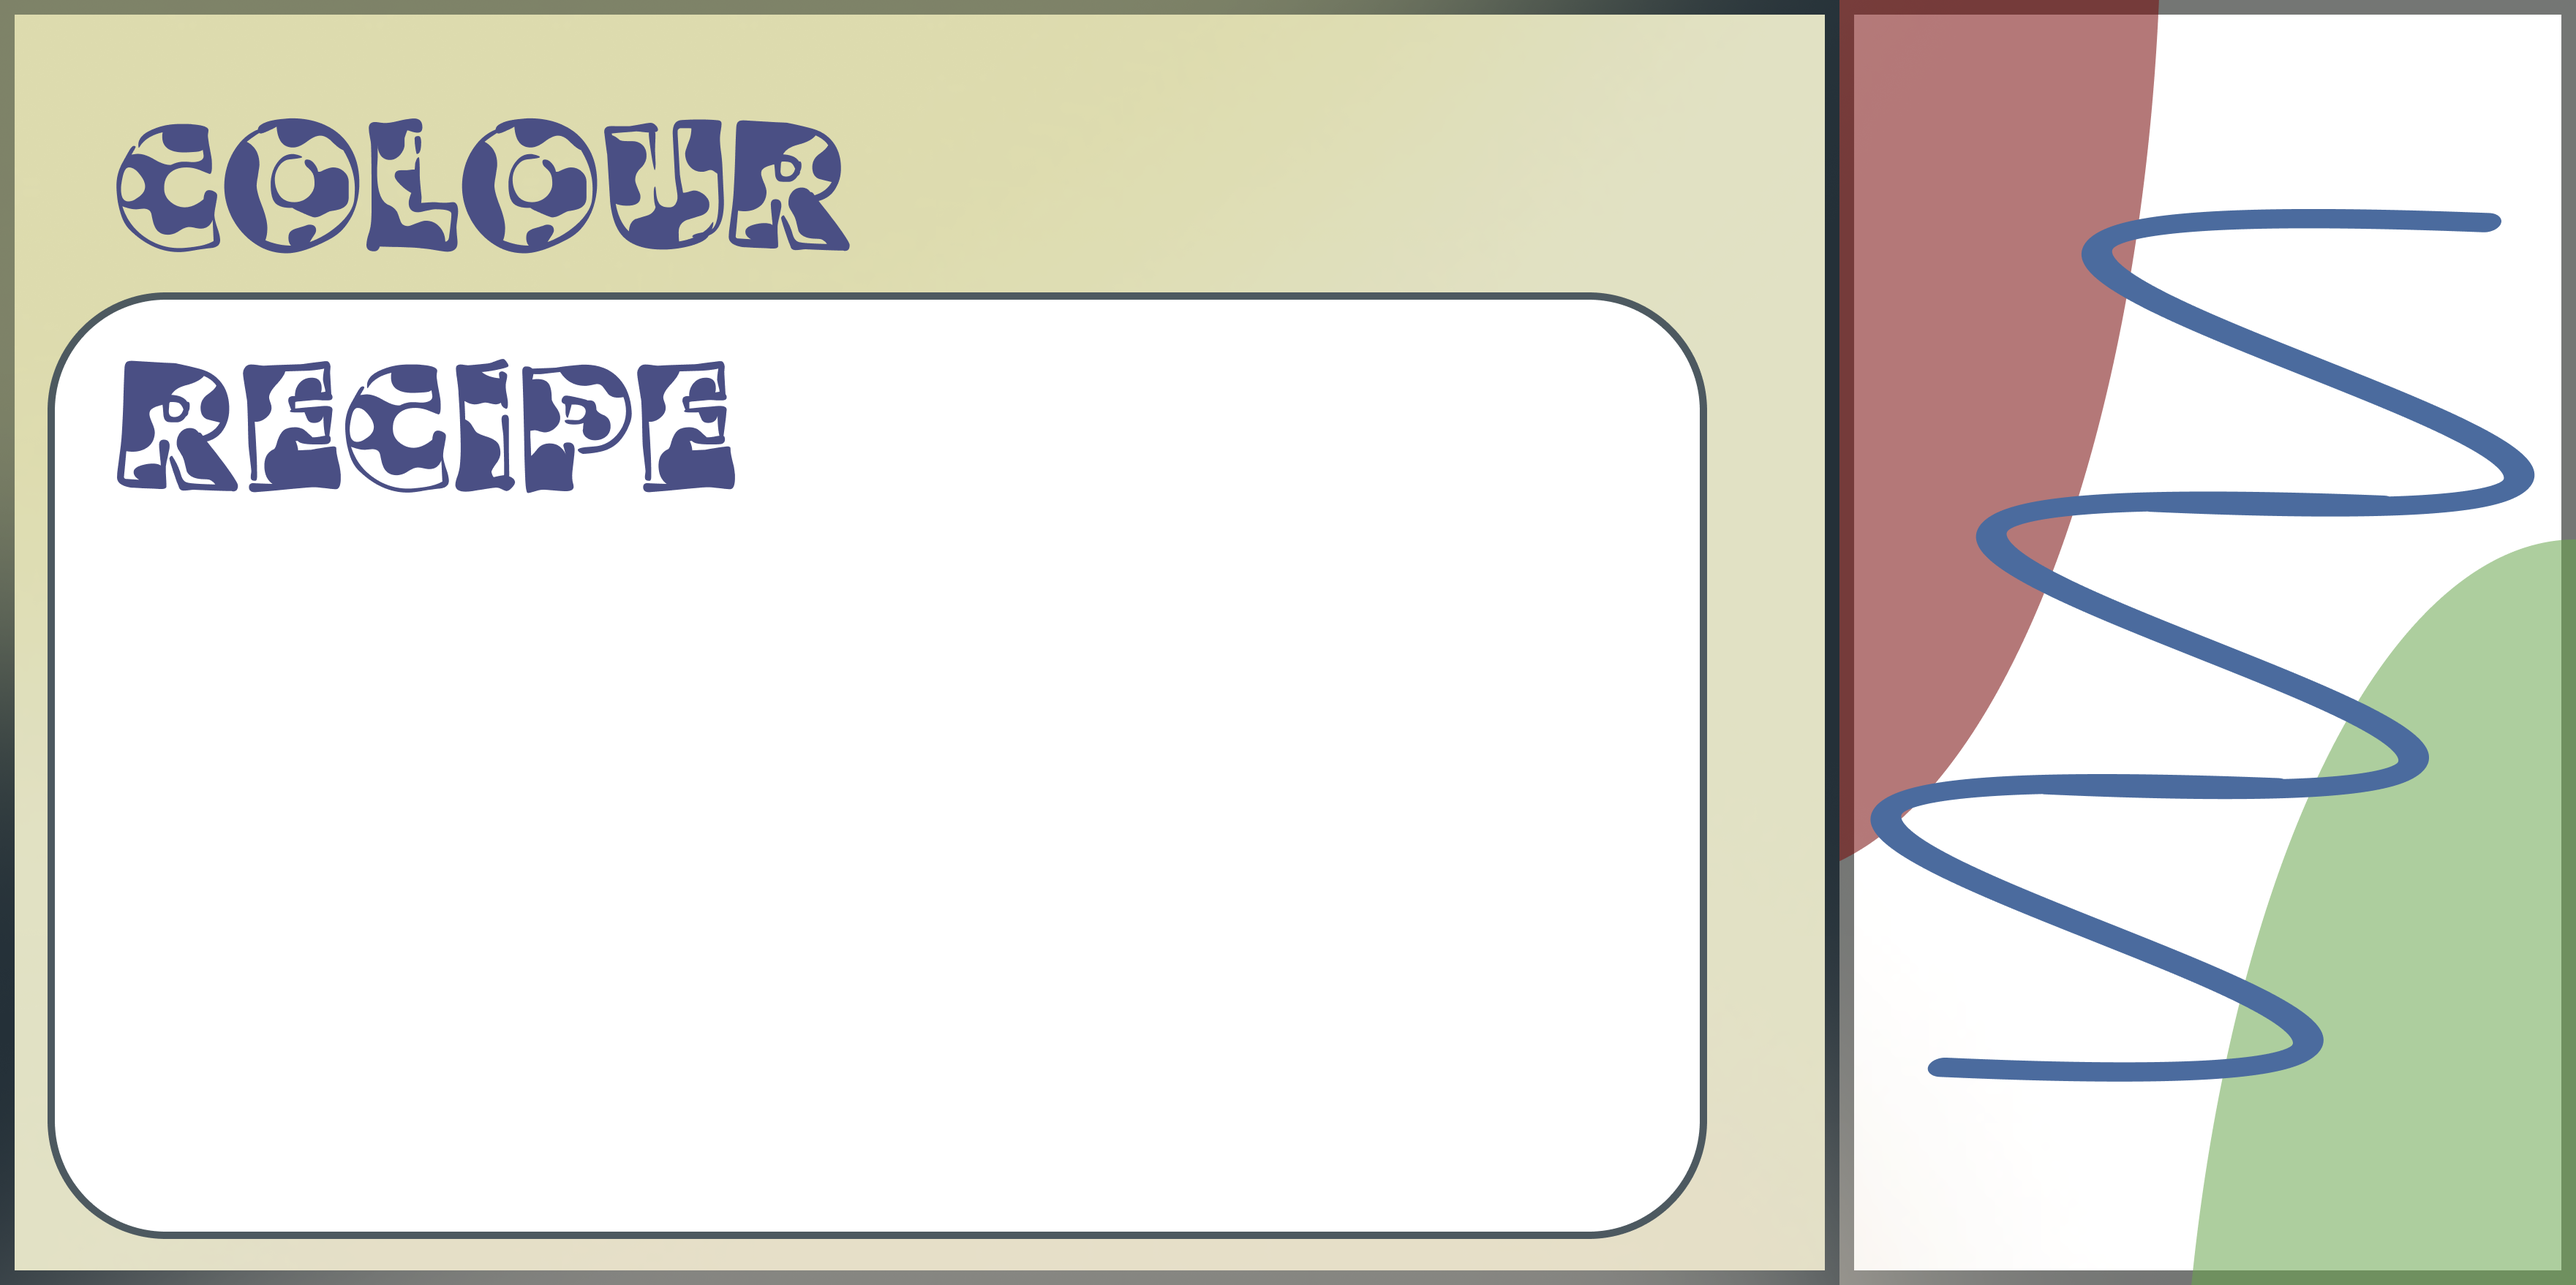
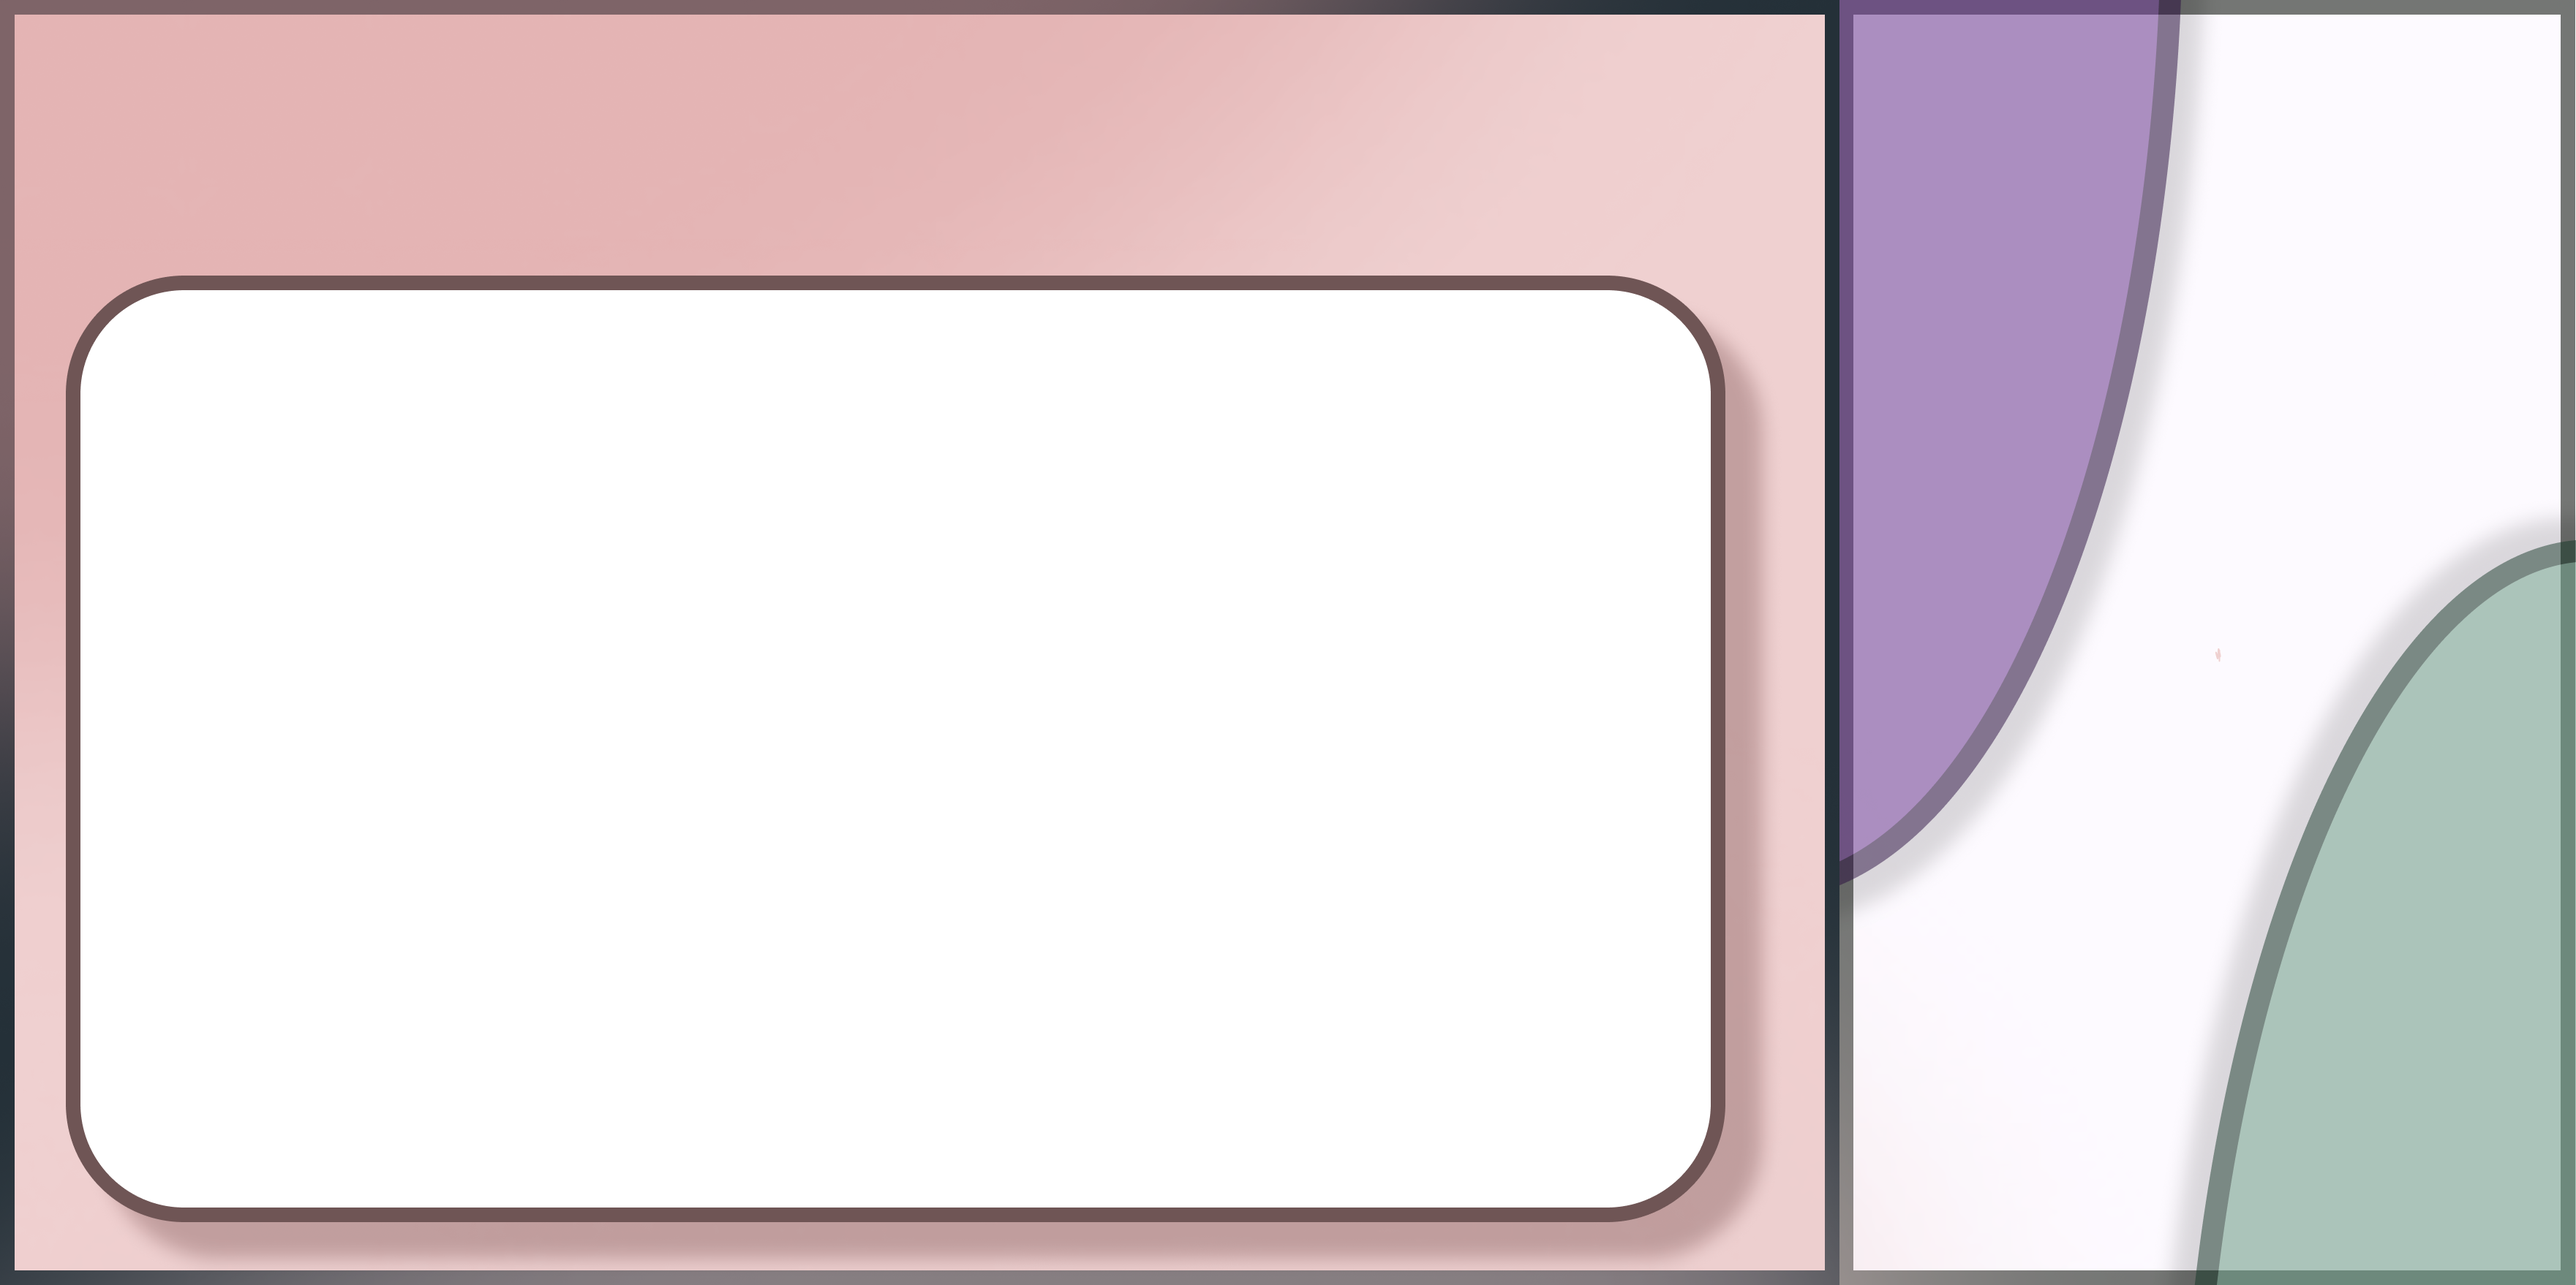
Refactor code structure for improved readability and maintainability

diff --git a/style.css b/style.css
@@ -110,7 +110,7 @@ main{
 
     display:block;
     width:100%;
-    height:550px;
+    height:670px;
     
 }
 
@@ -1074,4 +1074,27 @@ main{
     background:#364852;
     color:white;
 
+}
+
+
+.hero-banner{
+    position: relative;
+
+}
+
+
+.title-images{
+    position: absolute;
+    top: 44px;
+    left:5%;
+    transform: translateX(-50%);
+    width: 450px;
+    max-width: 88%;
+    transform: rotate(-0deg);
+    z-index: 2;
+
+}
+
+.title-images:hover{
+    transform: rotate(-8deg) scale(1.10);
 }

diff --git a/index.html b/index.html
@@ -36,8 +36,14 @@
         <!-- ================= HOMEPAGE DESIGN ================= -->
 
         <main>
+            <div class="hero-banner">
                
             <img src="images/home.png" alt="homepage" class="hero-image">
+
+            <img src="images/colour recipe.png"
+            alt="Colour Recipe"
+            class="title-images">
+            </div>
 
             <div class="divider"></div>
 
